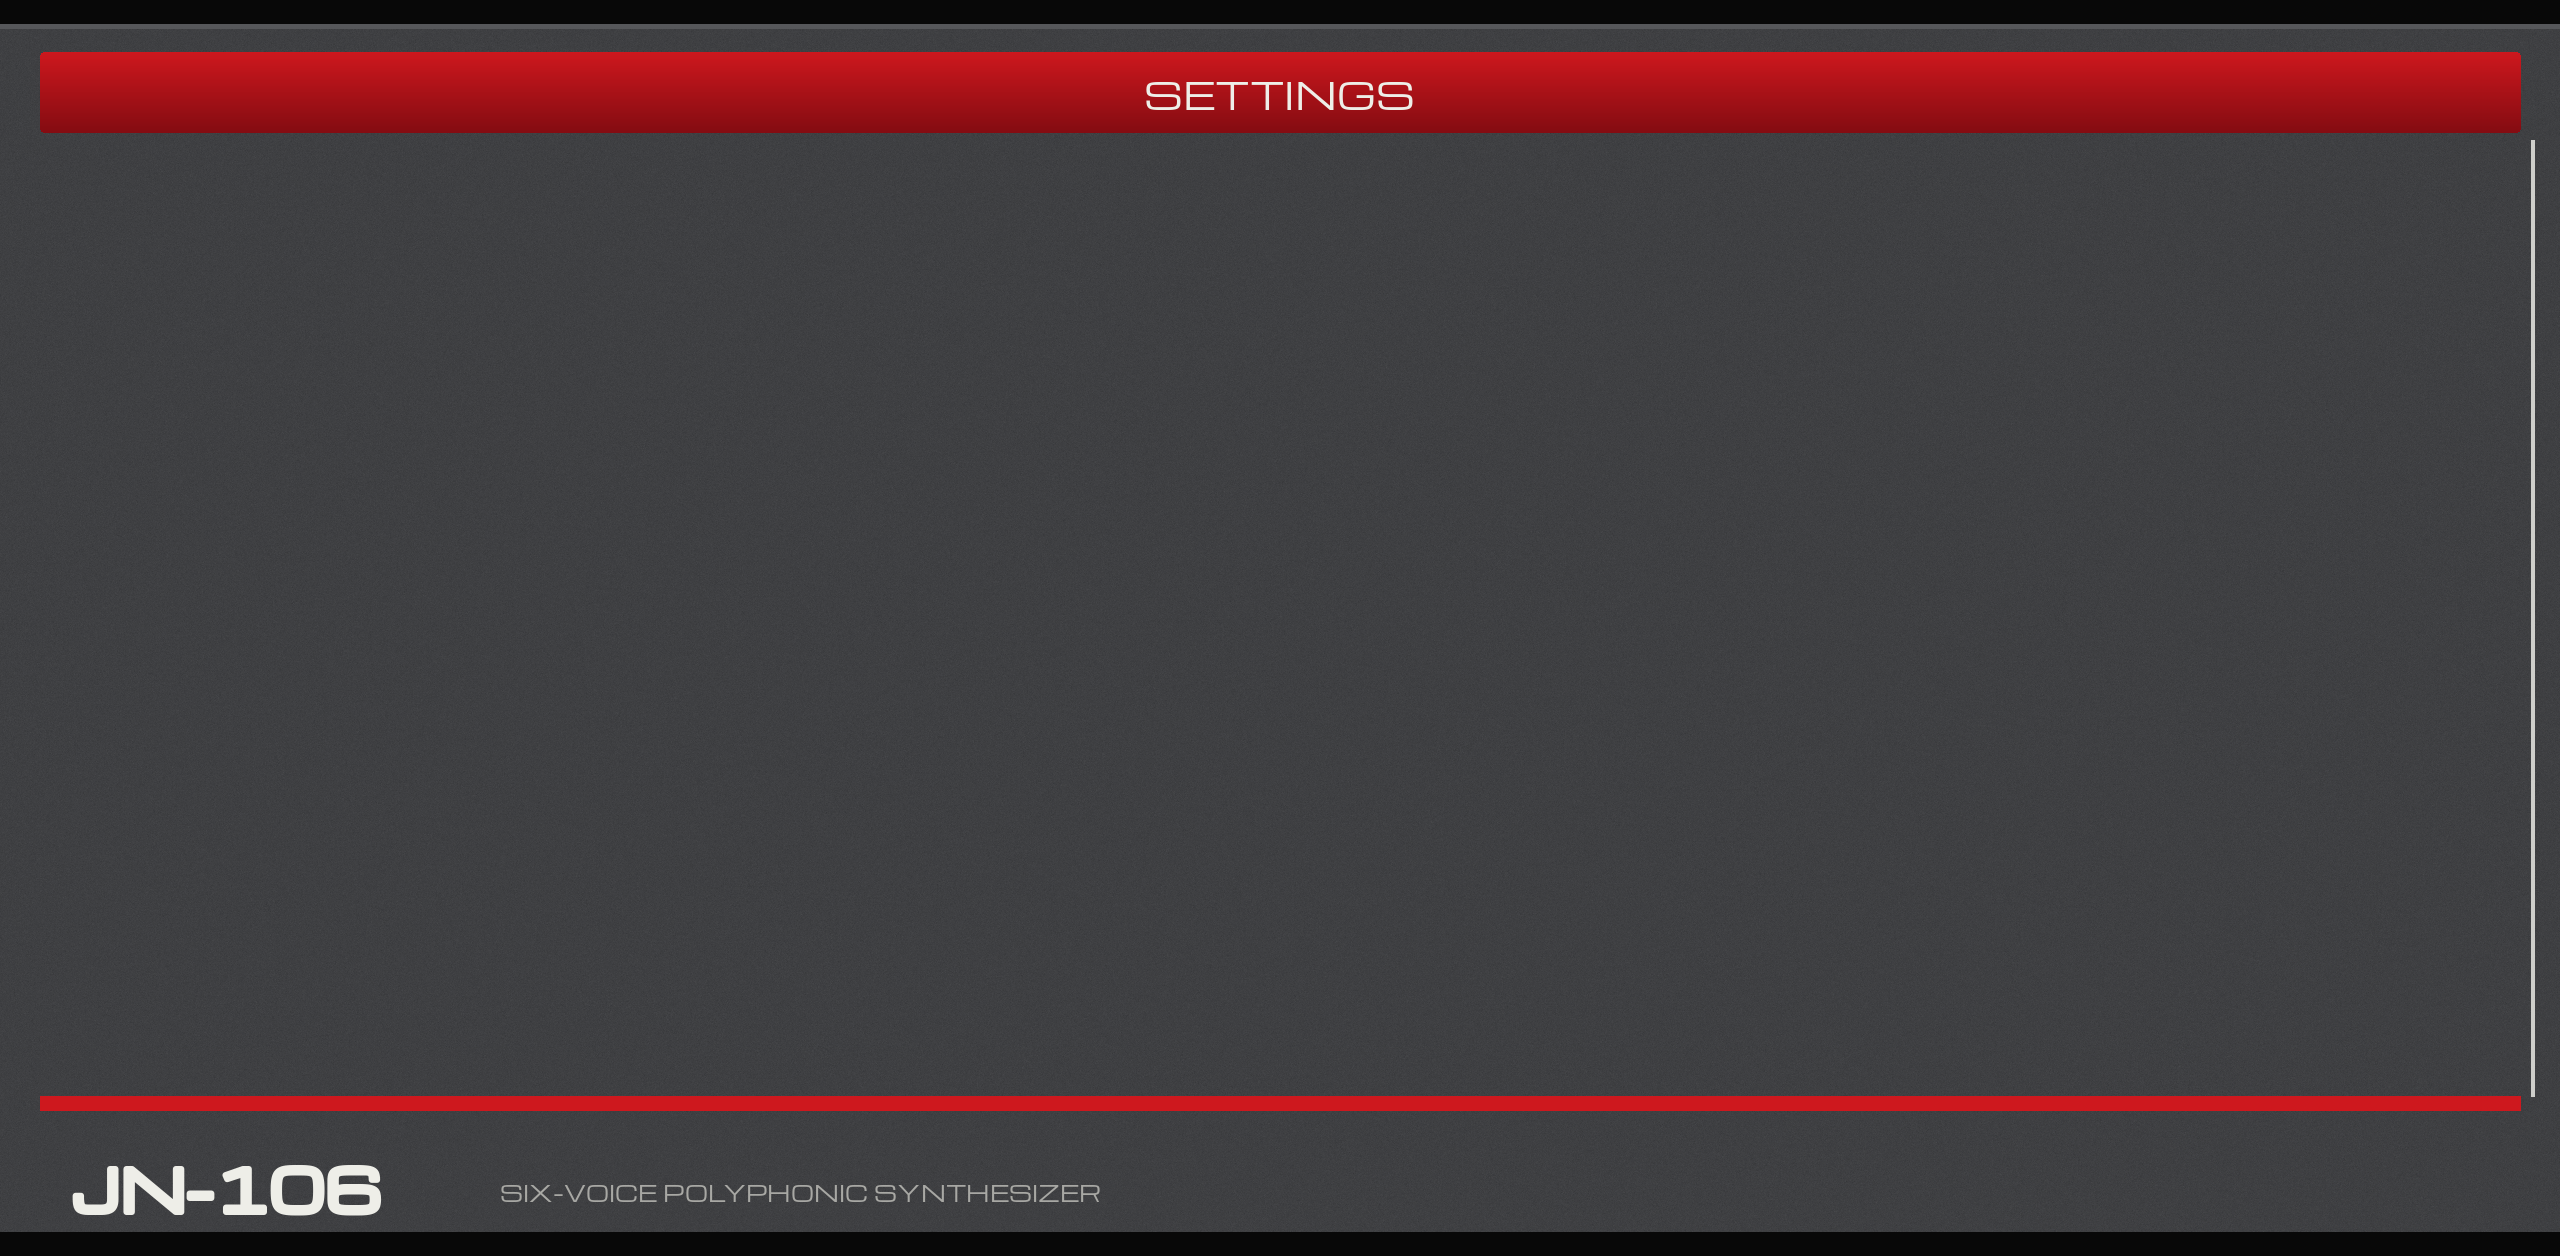
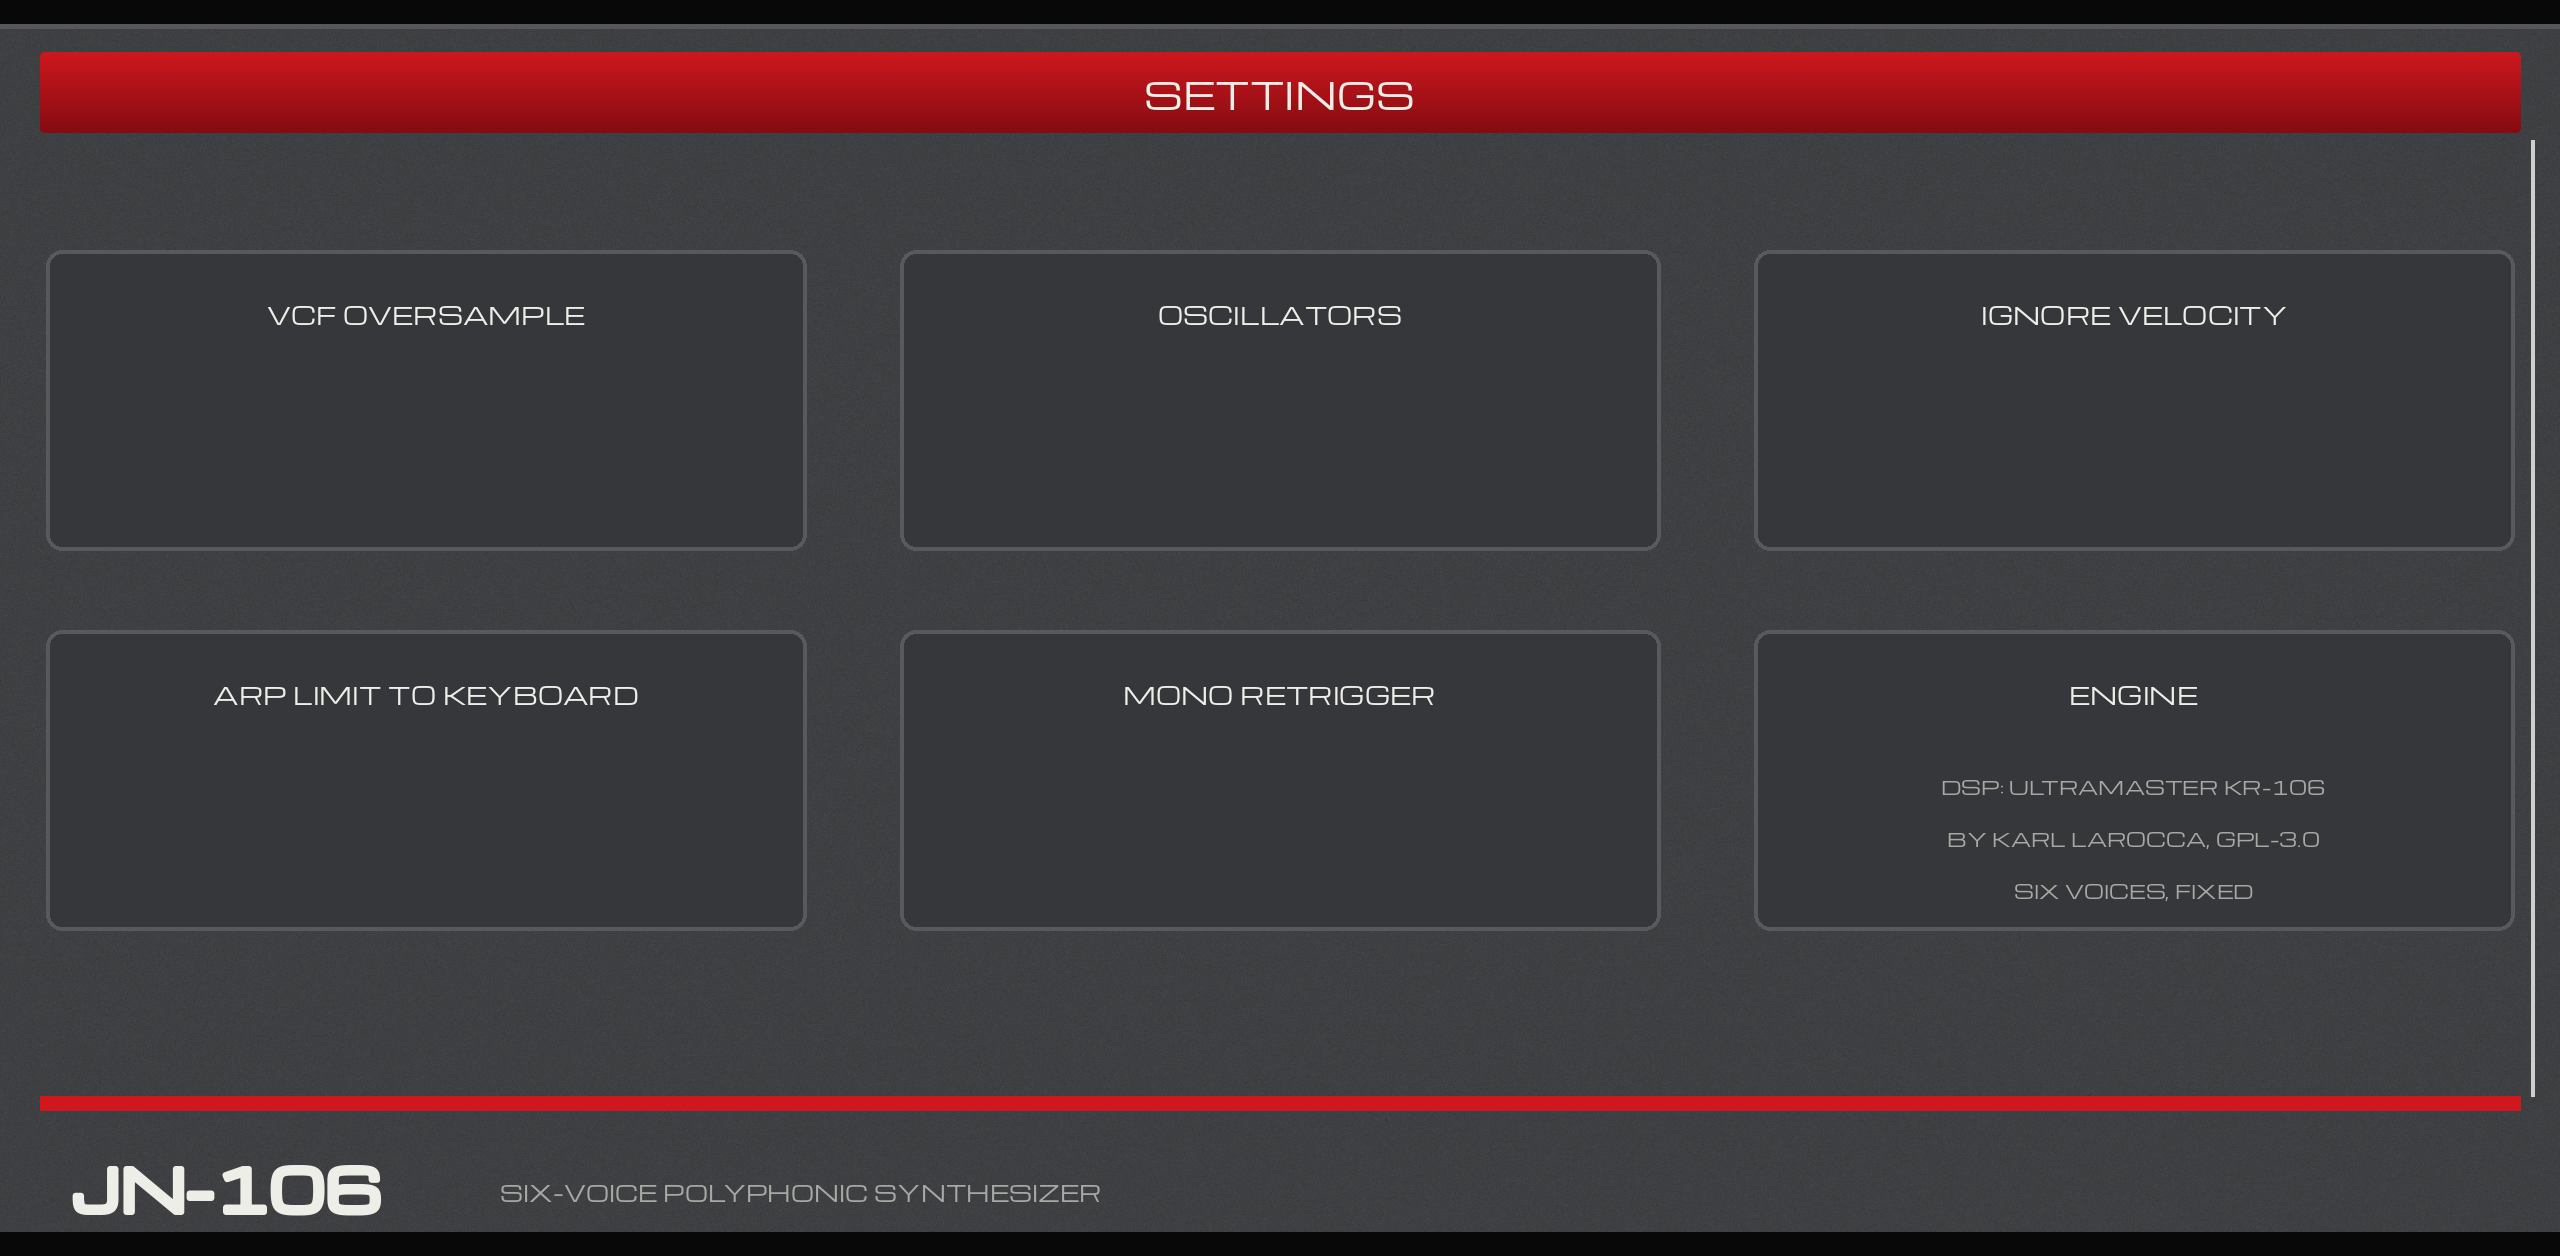
SETTINGS tab: card grid with Michroma labels, equal segments, engine credit
Claude-Session: https://claude.ai/code/session_01TfFEWkAAWsc8CDccyFysEB

diff --git a/skin/make_real_skin.py b/skin/make_real_skin.py
@@ -323,14 +323,33 @@ def tab_perform():
     return t
 
 
-SETTINGS = """[tab SETTINGS]
-art file=art_real/tab5.png fit=stretch
-enum_h cx=380 cy=230 label="VCF OVERSAMPLE" key=oversample sw=210 sh=56
-enum_h cx=900 cy=230 label="OSCILLATORS" key=osc_mode sw=190 sh=56
-enum_h cx=380 cy=390 label="IGNORE VELOCITY" key=ignore_vel sw=140 sh=56
-enum_h cx=900 cy=390 label="ARP LIMIT TO KEYBOARD" key=arp_limit_kbd sw=140 sh=56
-enum_h cx=380 cy=550 label="MONO RETRIGGER" key=mono_retrig sw=140 sh=56
-"""
+# SETTINGS: a 3 x 2 grid of cards, each a Michroma label (baked into tab5) over a two-option segment row. enum_h's cy is
+# the row's centre plus the 86 px header offset, and label="" leaves the labelling to the art.
+CARD_W, CARD_H = 380, 150
+CARD_X = (213, 640, 1067)
+CARD_Y = (125, 315)
+SETTING_CARDS = [("VCF OVERSAMPLE", "oversample"), ("OSCILLATORS", "osc_mode"), ("IGNORE VELOCITY", "ignore_vel"),
+                 ("ARP LIMIT TO KEYBOARD", "arp_limit_kbd"), ("MONO RETRIGGER", "mono_retrig")]
+
+
+def settings_art(t):
+    for i, (name, _) in enumerate(SETTING_CARDS + [("ENGINE", None)]):
+        cx, y = CARD_X[i % 3], CARD_Y[i // 3]
+        rrect(t.im, (cx - CARD_W / 2, y, cx + CARD_W / 2, y + CARD_H), 8, fill=(54, 55, 58), outline=(88, 89, 92), width=2)
+        t.label(cx, y + 32, name, 17)
+    cx, y = CARD_X[2], CARD_Y[1]
+    for k, line in enumerate(("DSP: ULTRAMASTER KR-106", "BY KARL LAROCCA, GPL-3.0", "SIX VOICES, FIXED")):
+        t.label(cx, y + 78 + k * 26, line, 13, DIM)
+
+
+def settings_layout():
+    out = ["[tab SETTINGS]", "art file=art_real/tab5.png fit=stretch"]
+    for i, (_, key) in enumerate(SETTING_CARDS):
+        cx, y = CARD_X[i % 3], CARD_Y[i // 3]
+        out.append('enum_h cx=%d cy=%d label="" key=%s sw=150 sh=56' % (cx, y + 95 + Y_OFF, key))
+    return "\n".join(out) + "\n"
+
+
 
 HEADER = """# generated by skin/make_real_skin.py: the KR-106's realistic panel, drawn for the MPC's 1280x628 plugin area.
 theme_bg=2a2b2e
@@ -491,9 +510,10 @@ def build(out):
         lines.append("")
     t5 = Tab("SETTINGS")
     t5.section(20, 1260, "SETTINGS")
+    settings_art(t5)
     r.save(t5.im, "tab5")
     r.preview(t5, 5, defaults)
-    lines.append(SETTINGS)
+    lines.append(settings_layout())
     open(os.path.join(out, "layout.real.conf"), "w").write("\n".join(lines))
 
 
